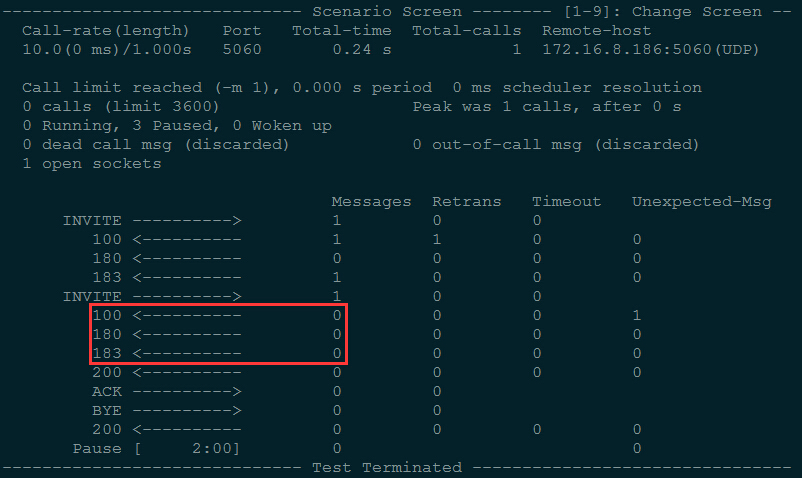
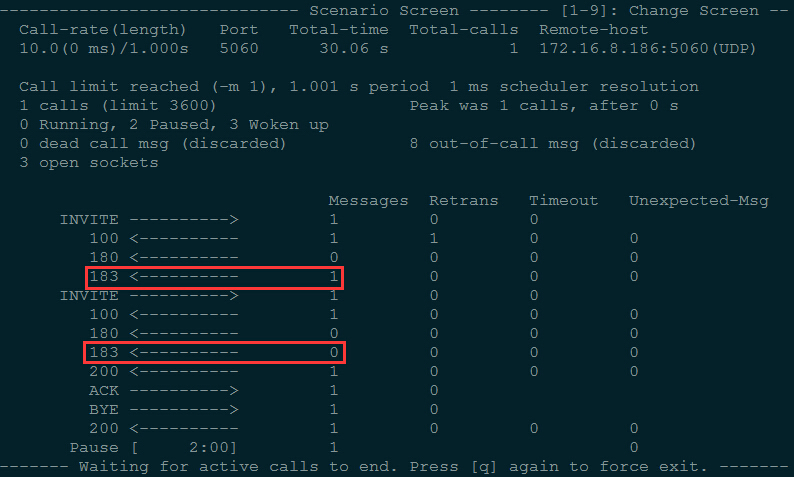
对应修改的 sip_cc_te_ce_v_022.xml 场景，修改 README.md 文件及其截图

diff --git a/voip/sipp/Brazil/README.md b/voip/sipp/Brazil/README.md
@@ -146,7 +146,7 @@
 
 ### SIP_CC_TE_CE_V_022
 
-	Q: 网关重发同样的 INVITE 之后应该发送回复上一个 INVITE 的 100, 183 的重发消息，而不是回复 482，然后手机振铃
+	Q: 网关重发同样的 INVITE 之后应该重发上一个 INVITE 的 183 的消息，而不是仅回复 100
 	
 	测试场景：sip_cc_te_ce_v_022.xml
 	测试方法：
@@ -161,7 +161,7 @@
 				NAT Traversal: Yes
 			2）路由：SIPp -> 8888 -> GSM -> Mobile
 		2. SIPp 端：sipp -sf sip_cc_te_ce_v_022.xml -i 172.16.8.88 172.16.8.186:5060 -m 1 -trace_msg
-		3. 第二个 INVITE 之后应收到 100 Trying, 183 然后手机振铃
+		3. 第二个 INVITE 之后应该重发上一个 INVITE 的 183 的消息
 
 ![sip_cc_te_ce_v_022](images/sip_cc_te_ce_v_022.jpg)
 
